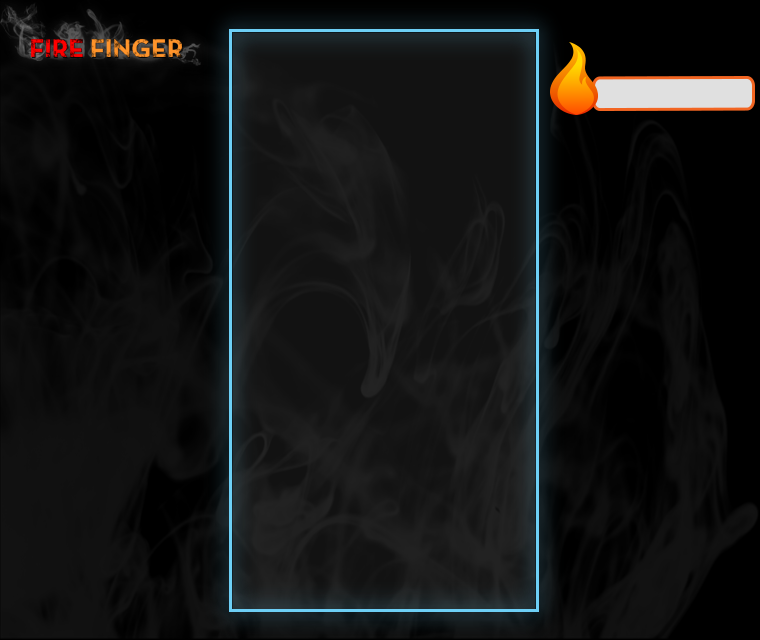
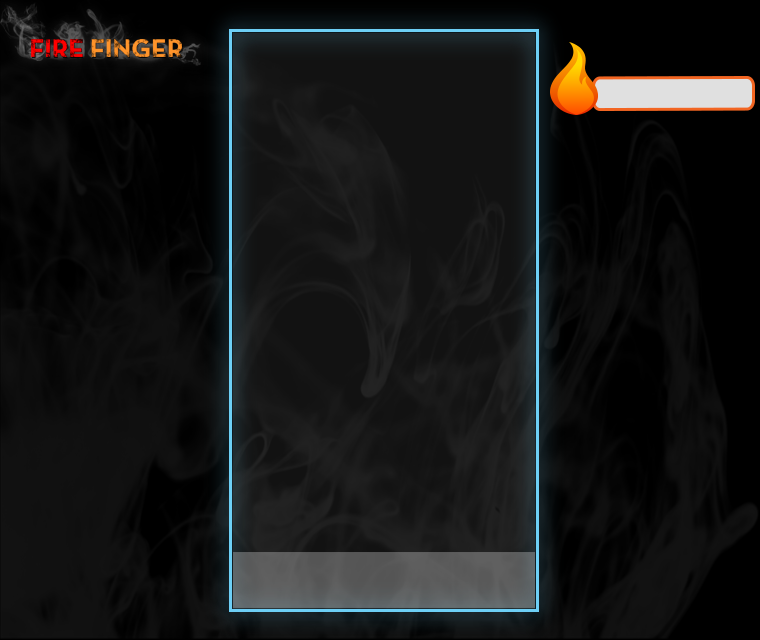
backup

Changed region(s): [[0.3026, 0.8438, 0.7263, 0.9688]]

diff --git a/web2/game.js b/web2/game.js
@@ -71,6 +71,7 @@ window.onload = function () {
         })
             .css('text-align', 'center');
 
+        //Credit text
         Crafty.e("Single,2D,DOM,Text,TextFormat")
             .text("Credit")
             .textColor("#ffffff")
@@ -86,6 +87,7 @@ window.onload = function () {
         })
             .css('text-align', 'center');
 
+        //Developed by who text
         Crafty.e("Developed,2D,DOM,Text,TextFormat")
             .text("Developed by Spart Studio")
             .textColor("#ffffff")
@@ -102,12 +104,17 @@ window.onload = function () {
             .css('text-align', 'center');
     });
 
+    //The single player seen
     Crafty.scene("Single", function () {
-
+        
+        //Get the current FPS
         var FPS = +Crafty.timer.getFPS();
+        //Set the base line that the word will start to disappear
         var baseLine = 500;
+        //The current text of the play, current text that was typed.
         var player_text = "";
 
+        //The background
         Crafty.e("2D,DOM,Text,Image")
             .image('img/single.png')
             .attr({
@@ -117,8 +124,9 @@ window.onload = function () {
             h: height
         });
         
+        //The current player text
         Crafty.e("Player,2D,DOM,Text,TextFormat")
-            .text(function() { return player_text;})
+            .text(player_text)
             .textColor("#ffffff")
             .textFont({
                 size: "16px",
@@ -126,13 +134,34 @@ window.onload = function () {
             })
             .attr({
                 x: 0,
-                y: 600,
-                h: width
+                y: 570,
+                w: width
             })
-            .css('text-align', 'center');
+            .css('text-align', 'center')
+            .bind("KeyDown",function(e){
+                
+                    function isAlphabet(c){
+                        return /^[a-zA-Z()]$/.test(c);
+                    }
+                
+                    if( isAlphabet(String.fromCharCode(e.key)) ){
+                        if( player_text.length == 0 )
+                            player_text += String.fromCharCode(e.key).toUpperCase();
+                        else
+                            player_text += String.fromCharCode(e.key).toLowerCase();
+                    }
+                    Crafty("Player").each(function(){
+                            this.text(player_text);
+                        })
+                });
 
-        Crafty.e("Keyboard")
+        Crafty.e()
             .bind("EnterFrame", function () {
+                
+                function startWith(str,pattern){
+                        return pattern == str.substr(0, pattern.length);
+                    }
+                
                 if (Crafty.frame() % (2 * FPS) == 0) {
                     Crafty.e("Words,2D,DOM,Text,TextFormat")
                         .text(function() {
@@ -144,8 +173,8 @@ window.onload = function () {
                             family: "Segoe UI"
                         })
                         .attr({
-                            x: Crafty.math.randomInt(225, 535),
-                            y: 74
+                            x: Crafty.math.randomInt(229, 520),
+                            y: 29
                         })
                         .bind("EnterFrame", function () {
                             this.y += 1;
@@ -154,9 +183,15 @@ window.onload = function () {
                             }
                         });
                     }
+                    
+                Crafty("Words").each(function(){
+                    if( player_text.length > 0 && (this.text(),player_text) ){
+                        this.textColor("#ff0000");
+                    }
                 })
-            .bind("KeyDown",function(){
+                    
                 
+                    
                 })
     });
 

diff --git a/web2/index.html b/web2/index.html
@@ -1,6 +1,7 @@
 <!DOCTYPE html>
 <head>	
     <script type="text/javascript" src="crafty.js"></script>
+    <script type="text/javascript" src="https://ajax.googleapis.com/ajax/libs/jquery/1.8.2/jquery.min.js"></script>
     <script type="text/javascript" src="dic.js"></script>
 	<script type="text/javascript" src="game.js"></script>
 	<style>
